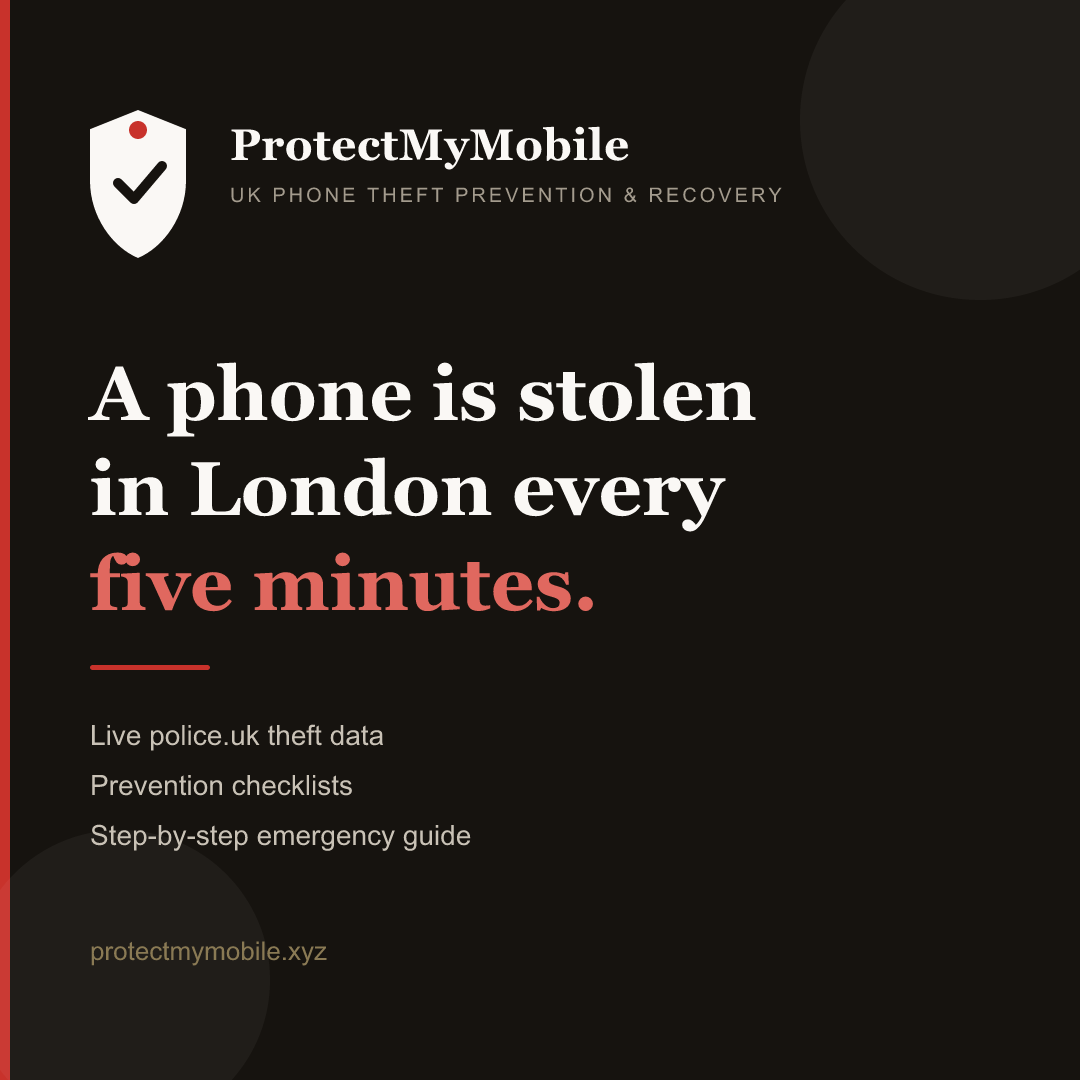
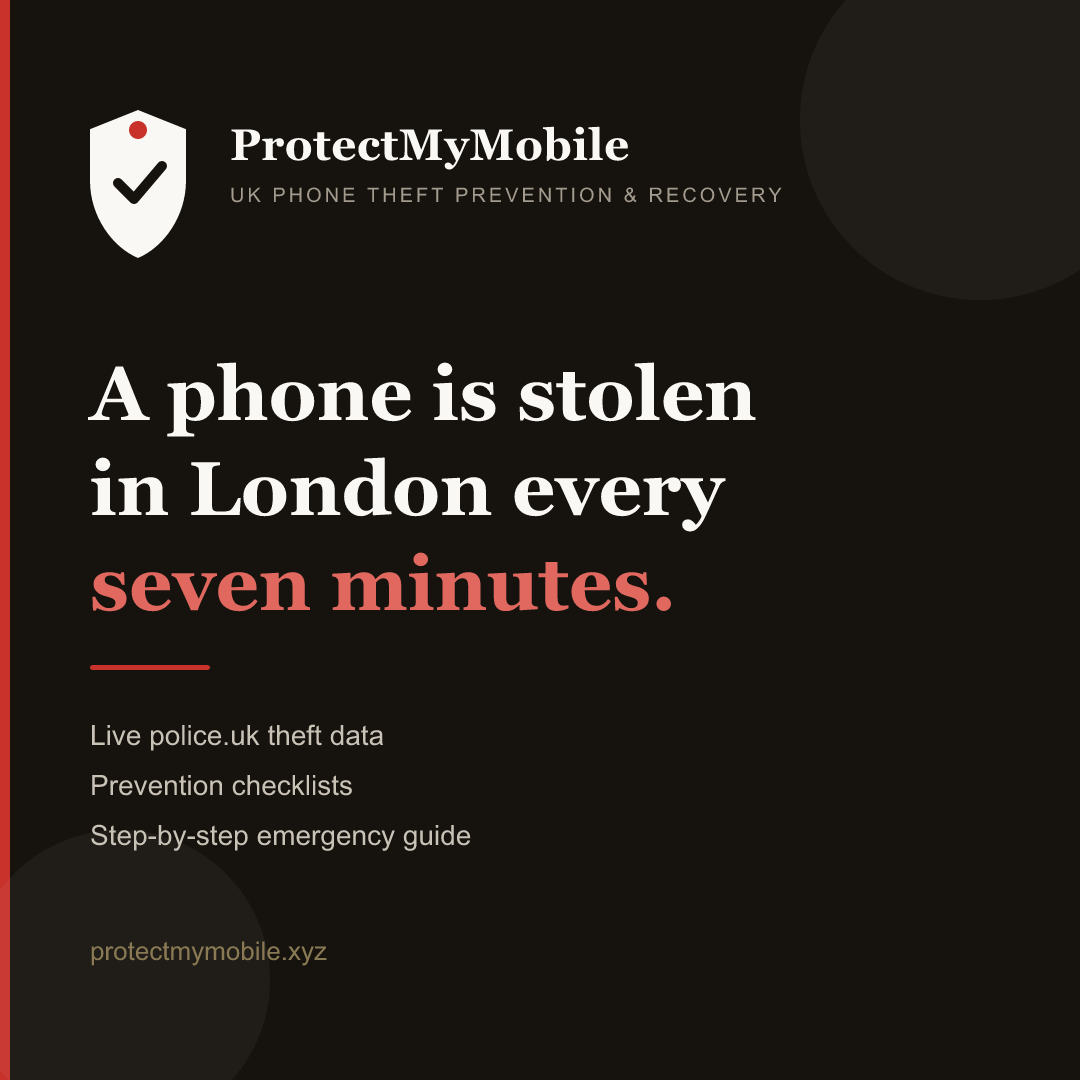
Sourced city data, OG refresh, sources block, em-dash purge
- OG images regenerated with 'every seven minutes' tagline
- City comparison + location pages: real police.uk figures
  (Jul 2025-Jun 2026, theft-from-person within ~1mi of centre);
  Manchester/Edinburgh/Glasgow marked 'not published' (GMP/Police
  Scotland do not feed police.uk street data)
- statistics page: Sources & methodology block with links to Met FOI,
  Met press releases, ONS bulletins, police.uk API
- Removed unused api/admin/seed-stats endpoint (generated synthetic data)
- Purged em/en dashes from user-facing copy and outbound templates

Changed region(s): [[0.0611, 0.4889, 0.6417, 0.5806]]

diff --git a/src/lib/directory-discovery.ts b/src/lib/directory-discovery.ts
@@ -366,7 +366,7 @@ export function buildDiscoveryReportHtml(report: DiscoveryReport): string {
     <p>Auto-created: <span style="color:green">${report.societiesNew}</span> | Pending review: <span style="color:orange">${report.societiesPending}</span></p>
     ${report.newSocieties.length > 0 ? `
     <h4>New Building Societies (inactive, awaiting review)</h4>
-    <ul>${report.newSocieties.map(b => `<li><strong>${b.name}</strong> — <a href="${b.website}">${b.website}</a></li>`).join('')}</ul>
+    <ul>${report.newSocieties.map(b => `<li><strong>${b.name}</strong>: <a href="${b.website}">${b.website}</a></li>`).join('')}</ul>
     ` : ''}
     ${report.pendingSocieties.length > 0 ? `
     <h4>Pending Building Societies (could not infer website)</h4>
@@ -382,7 +382,7 @@ export function buildDiscoveryReportHtml(report: DiscoveryReport): string {
     <p>Checked: ${report.providersChecked} | Auto-created: <span style="color:green">${report.providersNew}</span> | Pending review: <span style="color:orange">${report.providersPending}</span></p>
     ${report.newProviders.length > 0 ? `
     <h4>New Providers (inactive, awaiting review)</h4>
-    <ul>${report.newProviders.map(p => `<li><strong>${p.name}</strong> — <a href="${p.website}">${p.website}</a> (host: ${p.network})</li>`).join('')}</ul>
+    <ul>${report.newProviders.map(p => `<li><strong>${p.name}</strong>: <a href="${p.website}">${p.website}</a> (host: ${p.network})</li>`).join('')}</ul>
     ` : ''}
     ${report.pendingProviders.length > 0 ? `
     <h4>Pending Providers (could not infer website)</h4>

diff --git a/src/pages/api/cron/fetch-news.ts b/src/pages/api/cron/fetch-news.ts
@@ -116,7 +116,7 @@ async function createPost(
   if (excerpt === "No excerpt available." || excerpt.length < 30) {
     excerpt = cleanSnippet.length > 30
       ? extractExcerpt(cleanSnippet, 150)
-      : `${article.title!} — read the full article for more details.`;
+      : `${article.title!} - read the full article for more details.`;
   }
 
   const newPostId = await convex.mutation(api.newsPosts.create, {
